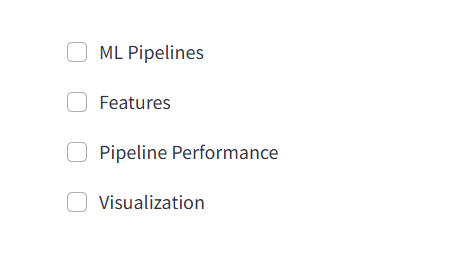
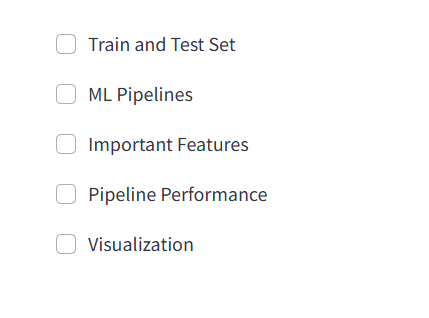
Add train test set frequencies to ml model and evaluation page

diff --git a/app_pages/page_model_evaluation.py b/app_pages/page_model_evaluation.py
@@ -58,6 +58,21 @@ def page_model_evaluation_body():
             )
     st.write("---")
 
+    # Show Train and Test Set Frequencies
+    if st.checkbox("### Train and Test Set"):
+        st.info(
+            "The dataset was split into train and test sets with the "
+            "following frequencies:"
+            )
+
+        st.markdown(
+            "| | Train Set Features | Train Set Target | Test Set Features | Test Set Target |\n"  # noqa
+            "| --- | --- | --- | --- | --- |\n"
+            f"| Rows | {X_train.shape[0]} | {y_train.shape[0]} | {X_test.shape[0]} | {y_test.shape[0]} |\n"  # noqa
+            f"| Columns | {X_train.shape[1]} | {y_train.shape[1]} | {X_test.shape[1]} | {y_test.shape[1]} |"  # noqa
+            )
+        st.write("---")
+
     # Show pipelines
     if st.checkbox("### ML Pipelines"):
         st.info("There are 2 ML Pipelines arranged in series.")
@@ -65,17 +80,20 @@ def page_model_evaluation_body():
         st.write(" * The first is responsible for feature engineering:")
         st.write(pipeline_feat_eng)
 
-        st.write("* The second is responsible for feature scaling and modelling:")
+        st.write(
+            "* The second is responsible for feature scaling and modelling:"
+            )
         st.write(pipeline_model)
 
         st.success(
-            "The optimised model is a Random Forest Classifier with max depth 10."
-            )
+                "The optimised model is a Random Forest Classifier with "
+                "max depth 10."
+                )
         st.write("---")
 
     # Show feature importance plot
-    if st.checkbox("### Features"):
-    # get features list:
+    if st.checkbox("### Important Features"):
+        # get features list:
         feat_list = X_train.columns.to_list()
         st.info(
             "The model was trained on the following features (in order of "
@@ -89,8 +107,8 @@ def page_model_evaluation_body():
     # Evaluate performance on train and test set
     if st.checkbox("### Pipeline Performance"):
         st.info("A report of performance metrics for the train and test sets:")
-        # Don't need to apply feature engineering pipeline since the train and test
-        # set was already transformed in the jupyter notebooks
+        # Don't need to apply feature engineering pipeline since the train
+        # and test set was already transformed in the jupyter notebooks
         performance(
             X_train=X_train,
             y_train=y_train,

diff --git a/README.md b/README.md
@@ -249,8 +249,9 @@ In this section we describe the design of the project dashboard including the pa
 | Predict Health Risk Levels Page | Prediction for High Risk | Example for a high-risk prediction. | ![screenshot](documentation/dashboard/prediction_high_risk.png) |
 | ML: Model and Evaluation | Model and Evaluation Summary | Summary of model performance requirements and actual model performance results | ![screenshot](documentation/dashboard/model_evaluation_summary.png) |
 | ML: Model and Evaluation | Checkboxes to display and hide different sections | The seperate sections of this page are collapsed and can be displayed by clicking the respective checkbox. This makes the page interactive to avoid information overload. | ![screenshot](documentation/dashboard/evaluation_checkboxes.png) |
+| ML: Model and Evaluation | Train and Test Set | Displays the train and test set frequencies | ![screenshot](documentation/dashboard/train_test_set.png) |
 | ML: Model and Evaluation | ML Pipelines | Present the feature engineering and model pipeline, showing the steps and hyperparameters | ![screenshot](documentation/dashboard/ml_pipelines.png) |
-| ML: Model and Evaluation | Features | Present the most important features and their relative importance | ![screenshot](documentation/dashboard/features.png) |
+| ML: Model and Evaluation | Important Features | Present the most important features and their relative importance | ![screenshot](documentation/dashboard/features.png) |
 | ML: Model and Evaluation | Pipeline Performance | Present a more detailed pipeline performance report, including classification reports and confusion matrices for the train and the test set | ![screenshot](documentation/dashboard/performance.png) |
 | ML: Model and Evaluation | Visualization | Visualize the train and test set confusion matrices | ![screenshot](documentation/dashboard/confusion_matrix.png) |
 
